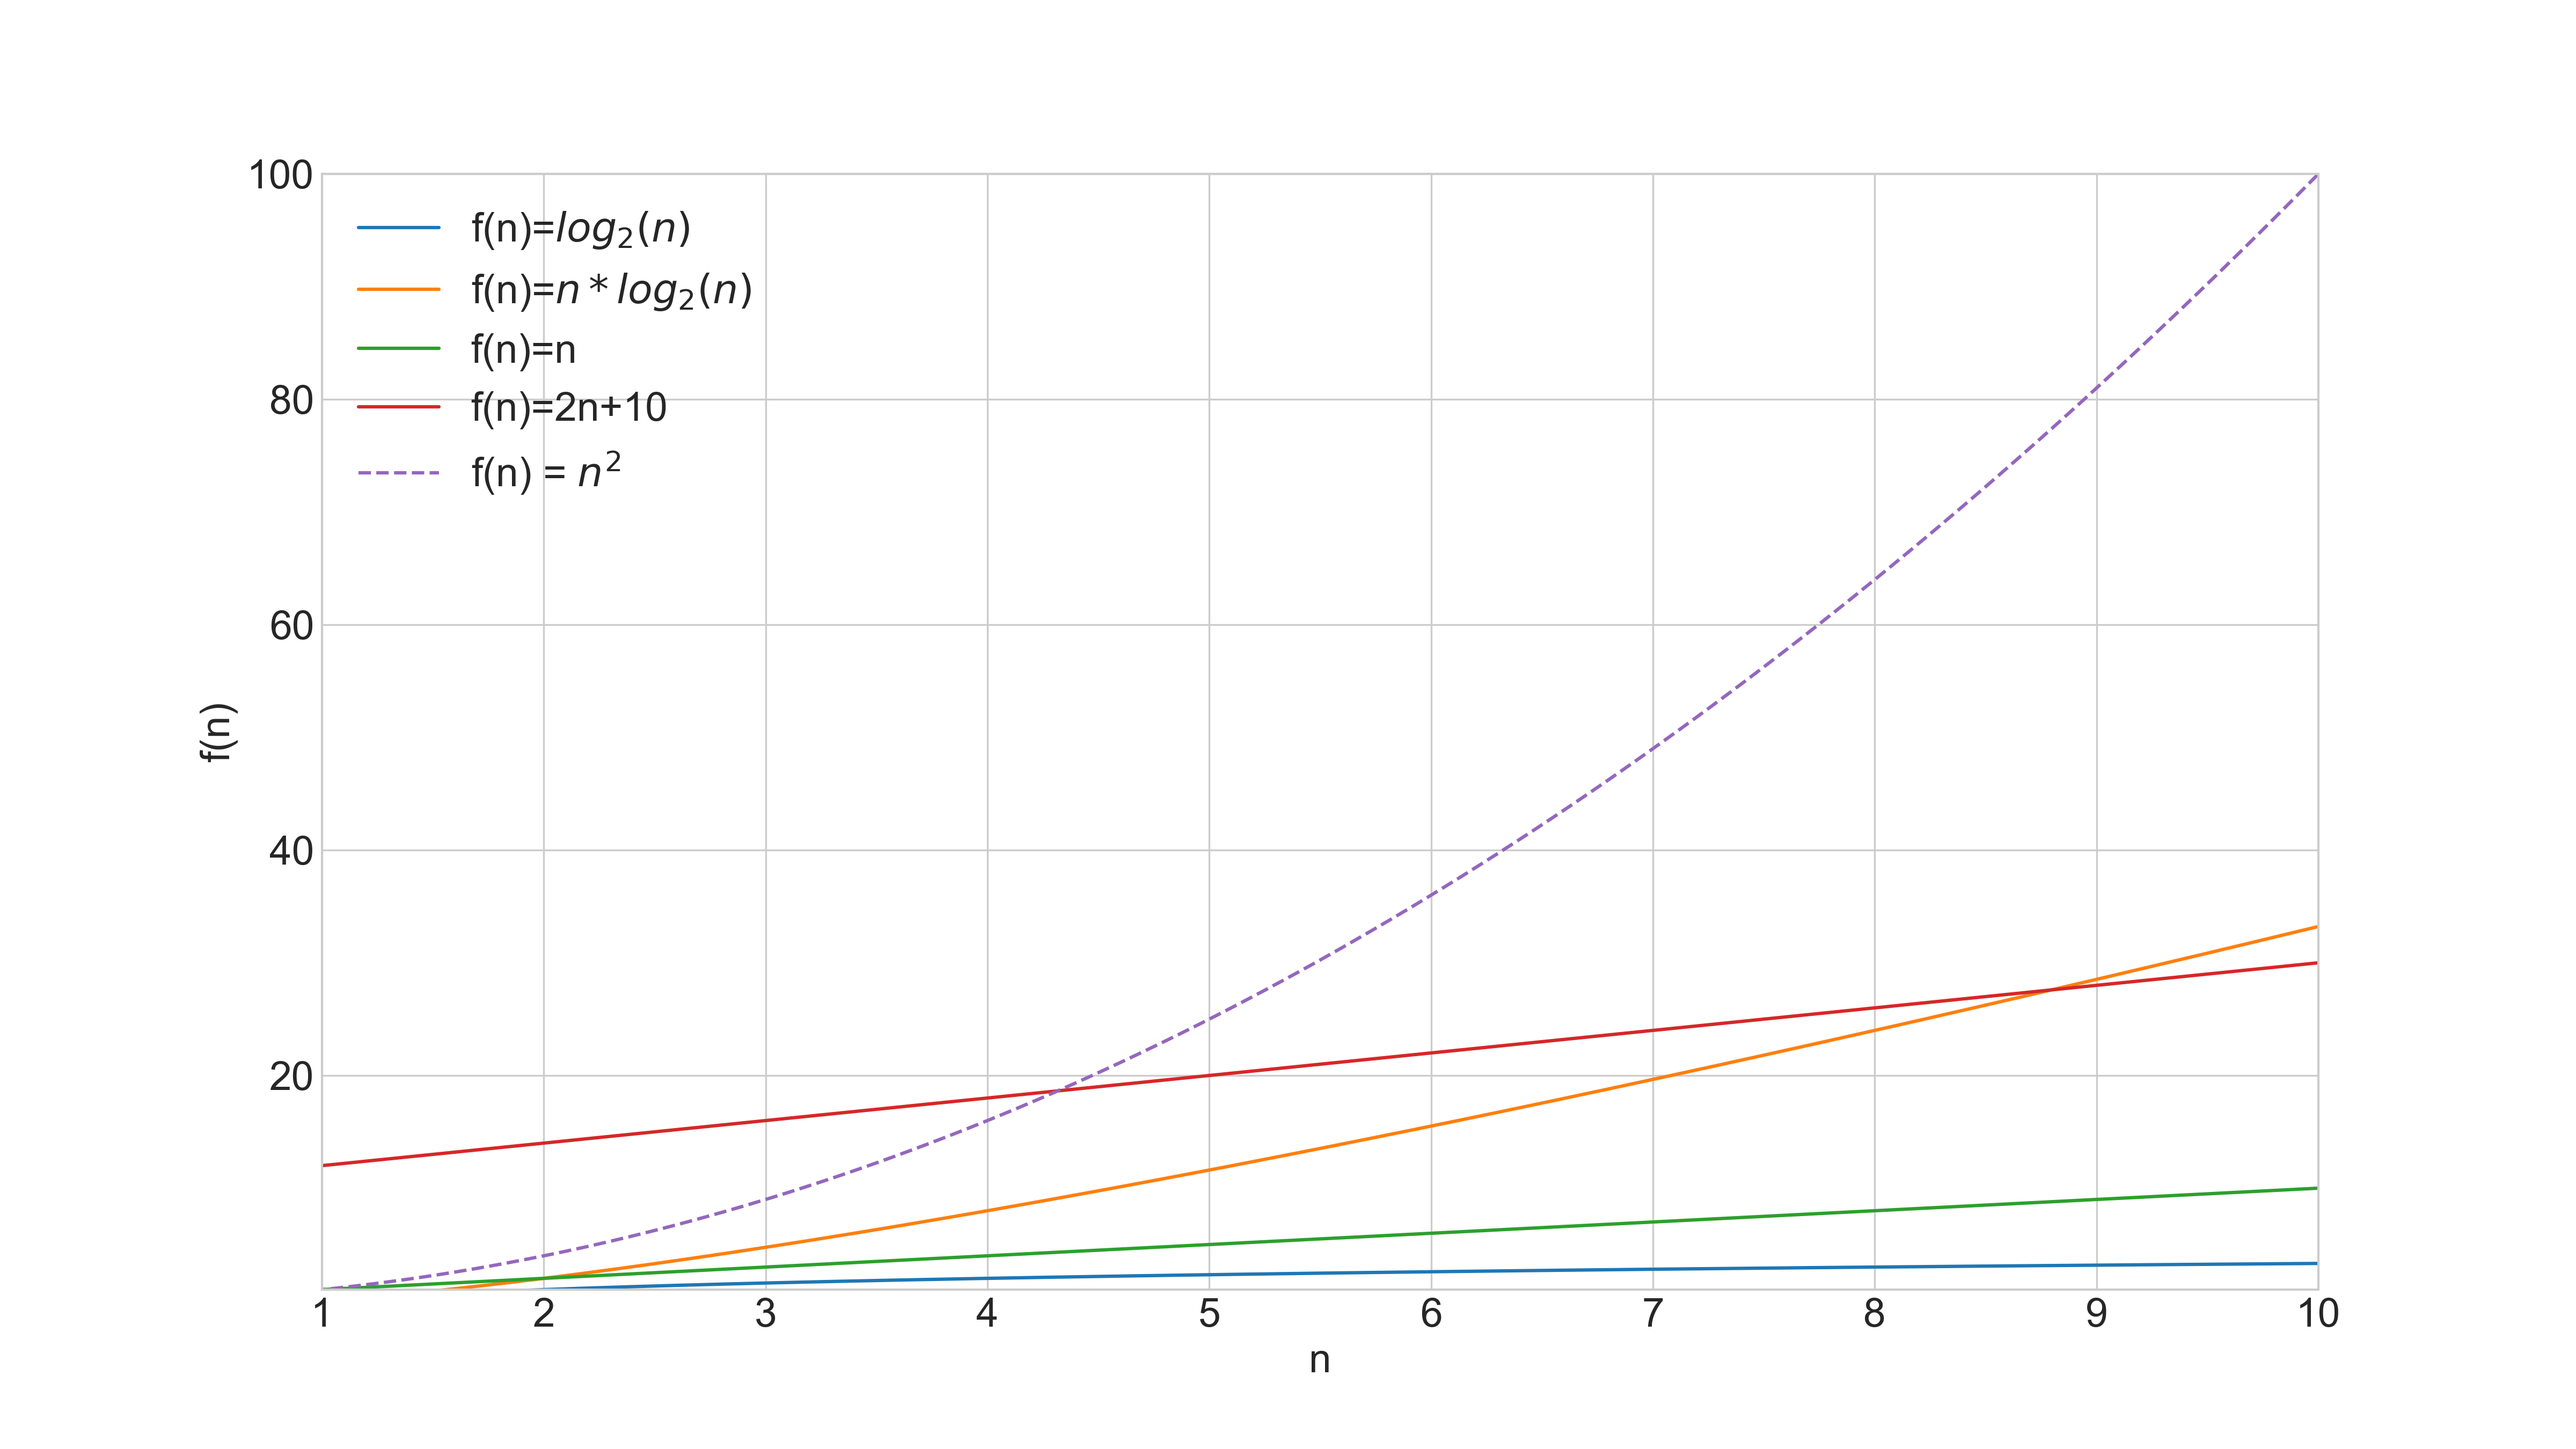
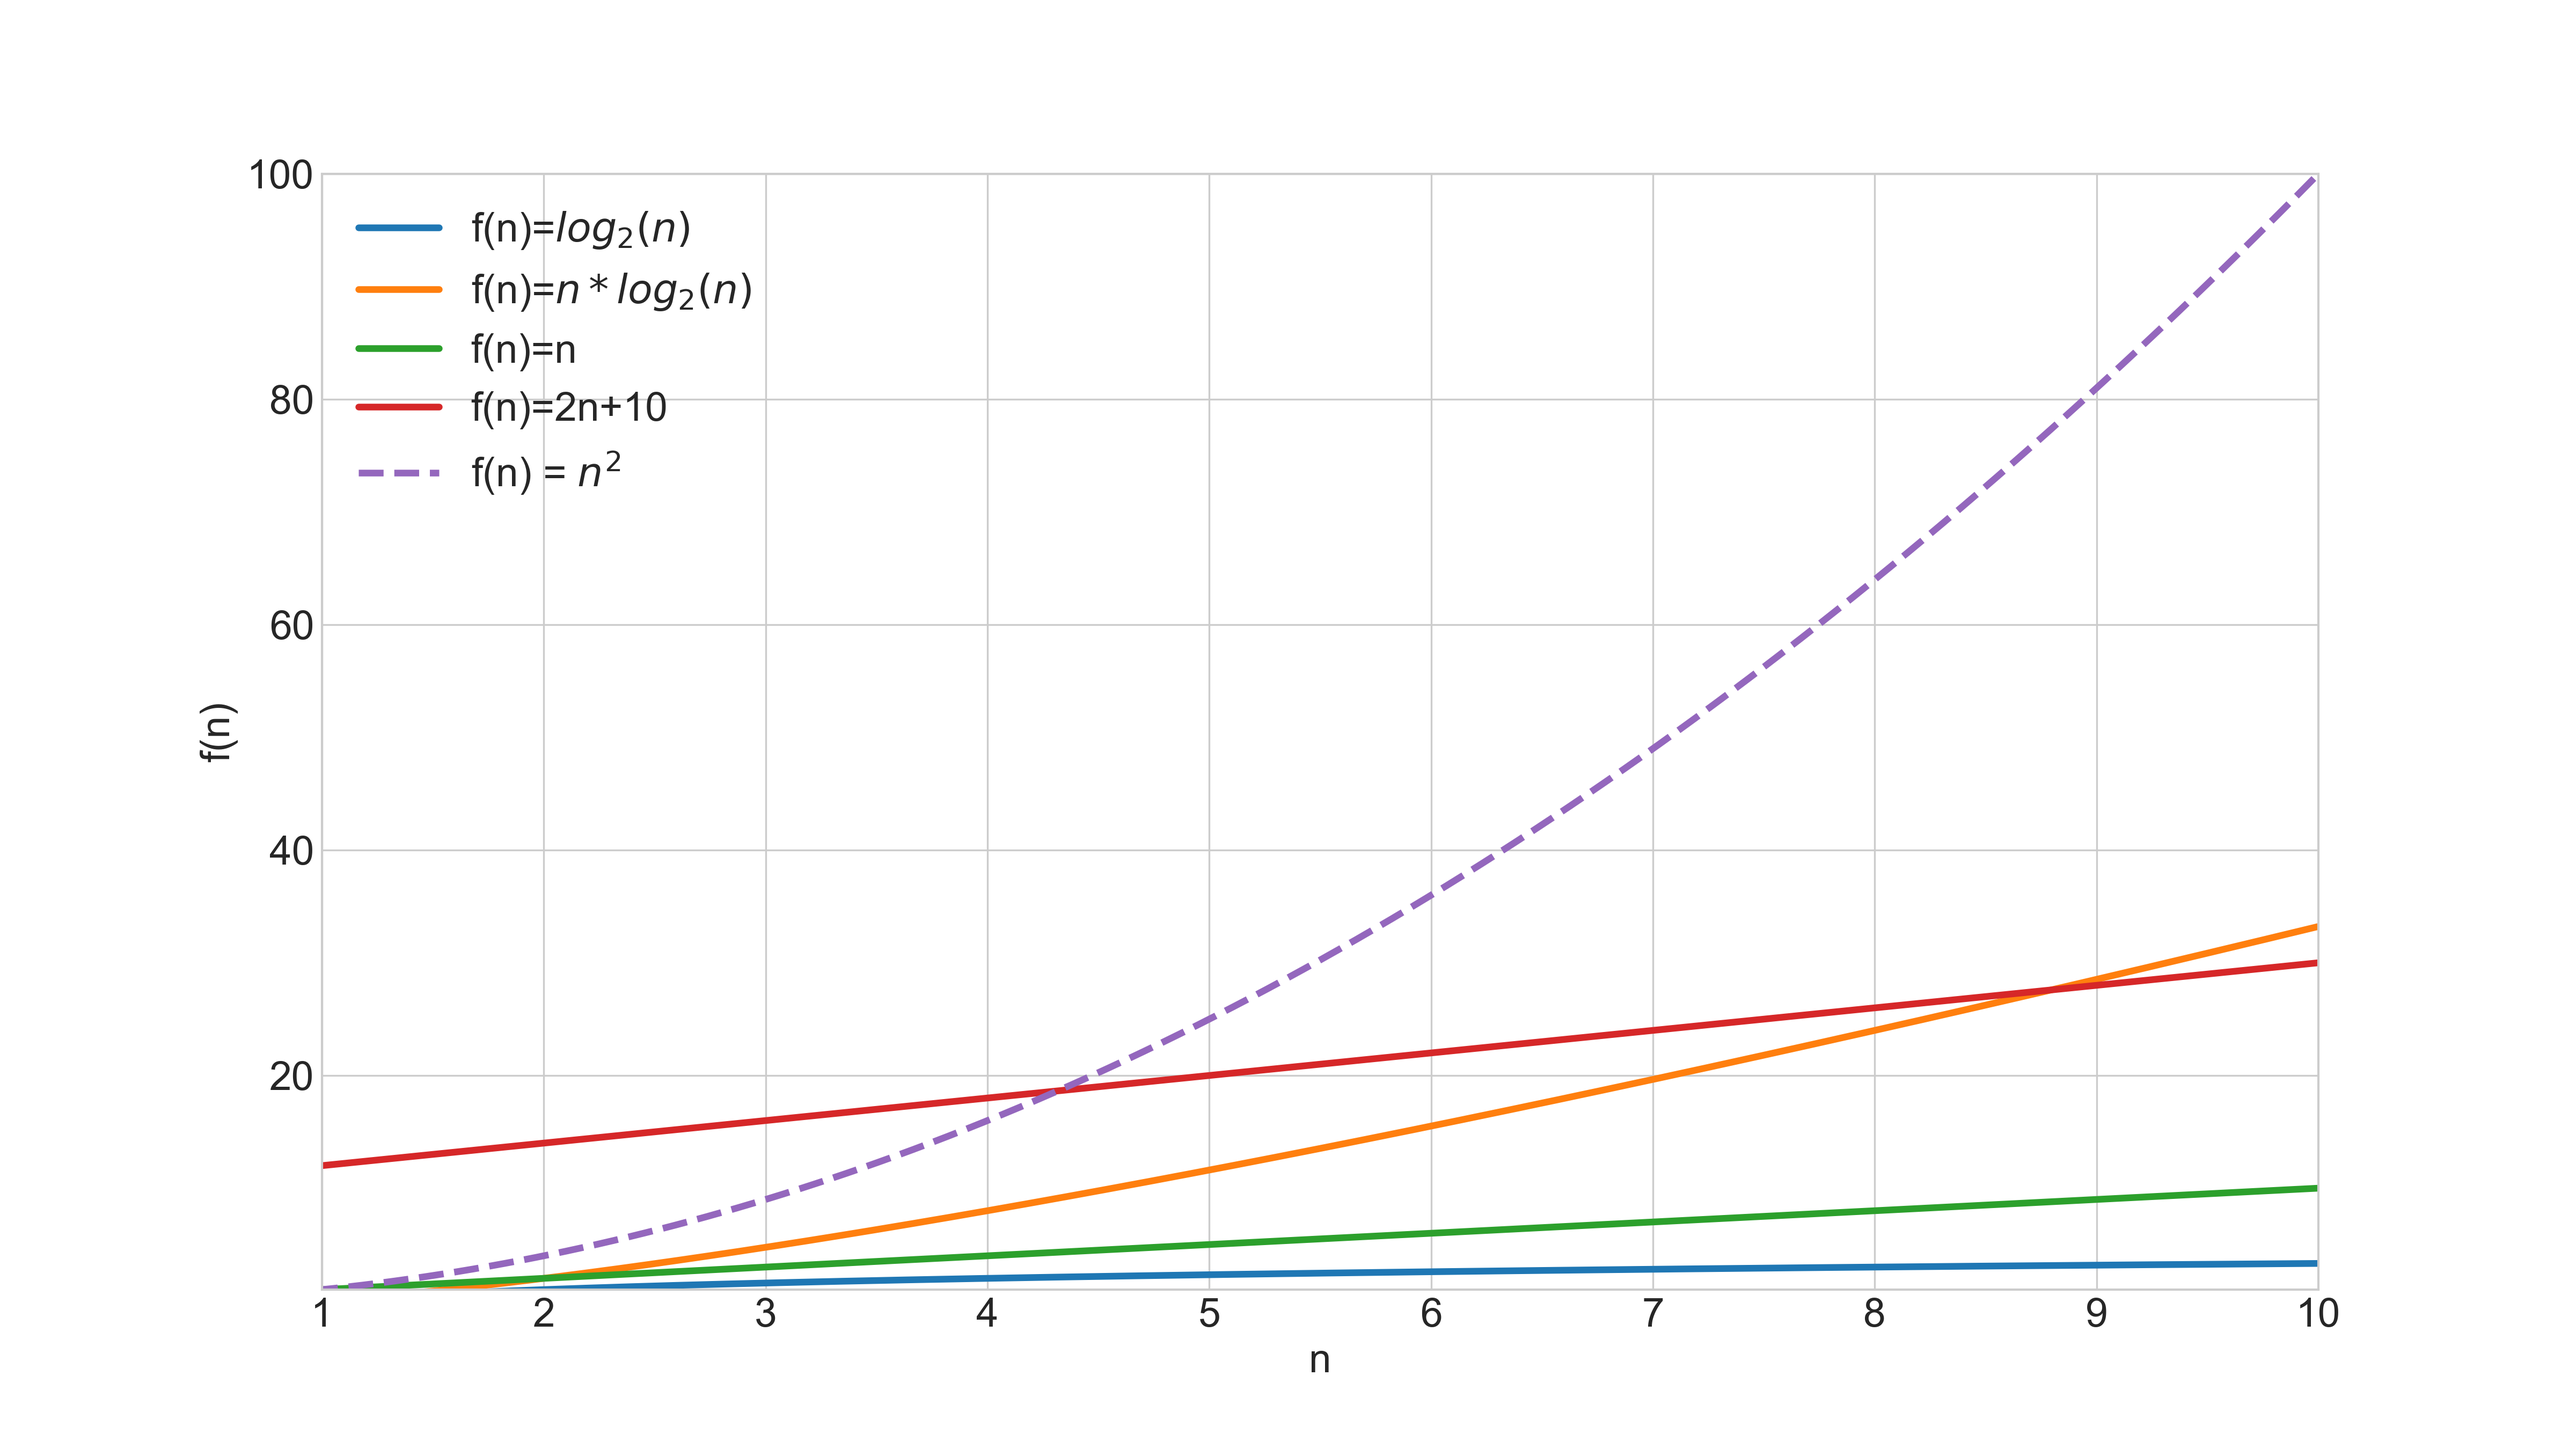
Add more code, fix mistakes, thick lines in create-slow-graphs.py.

diff --git a/src/create-slow-graphs.py b/src/create-slow-graphs.py
@@ -25,11 +25,11 @@ def create_slow_growth_functions():
     # xmin, xmax, ymin, ymax
     plt.axis([1, 10, 1, 100]);
 
-    plt.plot(x, np.log2(x), linestyle='solid', label="f(n)=$log_2(n)$")
-    plt.plot(x, x * np.log2(x), linestyle='solid', label="f(n)=$n*log_2(n)$")
-    plt.plot(x, x, linestyle='solid', label="f(n)=n")
-    plt.plot(x, 2 * x + 10, linestyle='solid', label="f(n)=2n+10")
-    plt.plot(x, x * x, linestyle='dashed', label="f(n) = $n^2$")
+    plt.plot(x, np.log2(x), linestyle='solid', label="f(n)=$log_2(n)$", linewidth=3)
+    plt.plot(x, x * np.log2(x), linestyle='solid', label="f(n)=$n*log_2(n)$", linewidth=3)
+    plt.plot(x, x, linestyle='solid', label="f(n)=n", linewidth=3)
+    plt.plot(x, 2 * x + 10, linestyle='solid', label="f(n)=2n+10", linewidth=3)
+    plt.plot(x, x * x, linestyle='dashed', label="f(n) = $n^2$", linewidth=3)
     plt.legend();
 
     plt.savefig('../public/slow-growth-functions.png', transparent=True, dpi=300)

diff --git a/slides.md b/slides.md
@@ -51,8 +51,8 @@ title: TaDa it's Magic
 
 ## Key Questions
 
-> Can a tool **automatically predict** a function's performance? Is it possible to
-> automatically estimate the **worst-case time complexity** of a function?
+> Can a tool **automatically predict** a program's performance? Is it possible to
+> automatically estimate the **worst-case time complexity** of a program?
 
 </div>
 
@@ -113,8 +113,9 @@ Let's learn how to predict a function's performance!
 
 ## Importance of Performance
 
-> Programmers who create serverless functions with AWS Lambda need to carefully
-> **monitor** and **improve** the performance of the functions
+> Programmers who create, say, **serverless functions** with AWS Lambda
+> need to carefully **monitor** and **improve** the performance of the
+> functions
 
 </div>
 
@@ -155,9 +156,9 @@ Analytical Evaluation
 
 <div class="text-6xl text-true-gray-600 font-bold mt-16 mr-15">
 <ul>
-<li> algorithm </li>
-<li> constructs </li>
-<li> growth </li>
+<li> Algorithm </li>
+<li> Constructs </li>
+<li> Growth </li>
 </ul>
 </div>
 
@@ -173,11 +174,11 @@ Analytical Evaluation
 Experimental Evaluation
 </div>
 
-<div class="text-8xl text-true-gray-600 font-bold mt-16 mr-19">
+<div class="text-8xl text-true-gray-600 font-bold mt-16 mr-14">
 <ul>
-<li> hardware </li>
-<li> software </li>
-<li> execute </li>
+<li> Program </li>
+<li> Benchmark </li>
+<li> Execute </li>
 </ul>
 </div>
 
